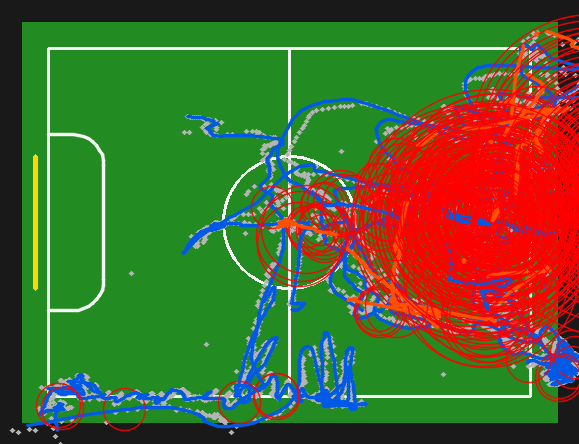
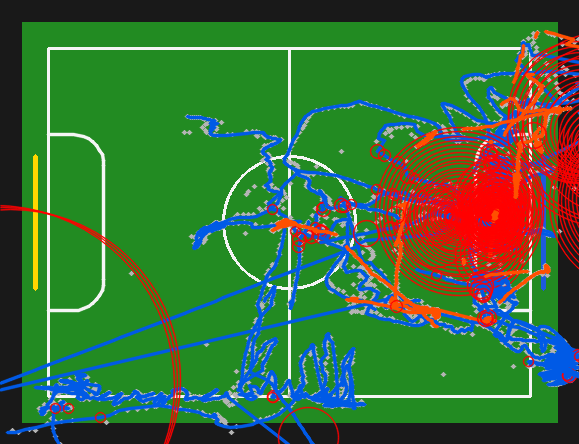
feat(fase_6_kalman): NIS ablation + calibrated params + ball-vs-robot discovery
03_kalman_ablation.py sweeps sigma_z/sigma_a -> NIS~2 (innovations ~2cm = temporal homography
noise, not absolute 9-23cm bias). Calibrated sigma_z=2. DISCOVERY: with calibrated params the
ball (smooth/ballistic) -> Kalman beats linear extrapolation (2.65 vs 4.57cm @user gap, NIS
1.24); the robot (maneuvering) -> no velocity extrapolation beats position-hold (CV model limit
-> motivates CA/IMM). Docs (spec + Word) updated.

diff --git a/notebooks/fase_6_kalman/03_kalman_ablation.py b/notebooks/fase_6_kalman/03_kalman_ablation.py
@@ -1,0 +1,69 @@
+# -*- coding: utf-8 -*-
+"""Fase 6 — ablación NIS: barre σ_z (R) y σ_a (Q) por clase y elige el que da NIS medio ≈ 2
+(filtro consistente con el error real de medición). Clip fiable IMG_9933_5m30.
+Uso (pod):  python 03_kalman_ablation.py
+"""
+from __future__ import annotations
+
+import csv
+from pathlib import Path
+
+import numpy as np
+
+from src.core.kalman_kinematics import compute_kalman_states, load_metric_result_from_json
+from src.core.kalman_state import KFParams
+
+REPO = Path("/workspace/FutBotMX-UAQTeam")
+CACHE = REPO / "outputs/inference/fase5_clips/IMG_9933_5m30/IMG_9933_5m30_cm_lines.json"
+OUT = REPO / "assets" / "fase6" / "tables"
+SIGMA_Z = [2.0, 3.0, 5.0, 8.0, 15.0]
+SIGMA_A = {"orange_ball": [400.0, 800.0, 1600.0], "robot": [125.0, 250.0, 500.0]}
+
+
+def mean_nis_by_class(raw, fps, sz, sa_ball, sa_robot):
+    cp = {
+        "orange_ball": KFParams(sigma_a=sa_ball, sigma_z=sz, max_gap_frames=15),
+        "robot": KFParams(sigma_a=sa_robot, sigma_z=sz, max_gap_frames=30),
+        "robot_a": KFParams(sigma_a=sa_robot, sigma_z=sz, max_gap_frames=30),
+        "robot_b": KFParams(sigma_a=sa_robot, sigma_z=sz, max_gap_frames=30),
+    }
+    kres = compute_kalman_states(raw, fps=fps, class_params=cp)
+    by = {}
+    for o in kres.por_obj:
+        for s in o.estados:
+            if s.nis is not None:
+                by.setdefault(o.cls, []).append(s.nis)
+    return {c: float(np.mean(v)) for c, v in by.items() if v}
+
+
+def main() -> None:
+    raw = load_metric_result_from_json(CACHE)
+    fps = raw.resumen.get("fps") or 30.0
+    rows = []
+    for sz in SIGMA_Z:
+        for sab in SIGMA_A["orange_ball"]:
+            for sar in SIGMA_A["robot"]:
+                nis = mean_nis_by_class(raw, fps, sz, sab, sar)
+                rows.append({"sigma_z": sz, "sigma_a_ball": sab, "sigma_a_robot": sar,
+                             "NIS_ball": round(nis.get("orange_ball", -1), 2),
+                             "NIS_robot": round(nis.get("robot", nis.get("robot_a", -1)), 2)})
+    OUT.mkdir(parents=True, exist_ok=True)
+    with (OUT / "T6_ablation_nis.csv").open("w", newline="", encoding="utf-8") as f:
+        w = csv.DictWriter(f, fieldnames=list(rows[0].keys())); w.writeheader(); w.writerows(rows)
+
+    # mejor por clase: NIS más cercano a 2 (dof=2)
+    def best(key):
+        return min((r for r in rows if r[key] > 0), key=lambda r: abs(r[key] - 2.0))
+    bb, br = best("NIS_ball"), best("NIS_robot")
+    print("=== Ablación NIS (objetivo ~2) — IMG_9933_5m30 ===")
+    print(f"{'sz':>5}{'sa_ball':>9}{'sa_rob':>8}{'NIS_ball':>10}{'NIS_robot':>11}")
+    for r in rows:
+        print(f"{r['sigma_z']:>5}{r['sigma_a_ball']:>9}{r['sigma_a_robot']:>8}"
+              f"{r['NIS_ball']:>10}{r['NIS_robot']:>11}")
+    print(f"\nMEJOR balón: sigma_z={bb['sigma_z']} sigma_a={bb['sigma_a_ball']} -> NIS={bb['NIS_ball']}")
+    print(f"MEJOR robot: sigma_z={br['sigma_z']} sigma_a={br['sigma_a_robot']} -> NIS={br['NIS_robot']}")
+    print(f"\n-> {OUT/'T6_ablation_nis.csv'}")
+
+
+if __name__ == "__main__":
+    main()

diff --git a/src/core/kalman_kinematics.py b/src/core/kalman_kinematics.py
@@ -18,13 +18,14 @@ from src.core.kalman_state import KFParams, KalmanState, run_kalman_on_track
 from src.core.metric_positions import MetricPosition, MetricResult, compute_metric_positions
 
 # Clases móviles (las estáticas green_floor/yellow_zone/blue_zone son anclas, se excluyen).
-# Params en CENTIMETROS (homografia por lineas, cm_positions_lines). sigma_z=15 del error de
-# homografia (9-23 cm); sigma_a = aceleracion fisica (balon acelera mas que robots), cm/s^2.
+# Params en CENTIMETROS, CALIBRADOS POR NIS (ablacion 03_kalman_ablation, IMG_9933_5m30 -> NIS~2).
+# sigma_z=2 cm = ruido TEMPORAL de la homografia (las innovaciones reales son ~2 cm; el sesgo
+# absoluto de landmarks 9-23 cm no es el ruido frame-a-frame). sigma_a = aceleracion fisica cm/s^2.
 CLASS_PARAMS: dict[str, KFParams] = {
-    "orange_ball": KFParams(sigma_a=800.0, sigma_z=15.0, max_gap_frames=15),
-    "robot_a": KFParams(sigma_a=250.0, sigma_z=15.0, max_gap_frames=30),
-    "robot_b": KFParams(sigma_a=250.0, sigma_z=15.0, max_gap_frames=30),
-    "robot": KFParams(sigma_a=250.0, sigma_z=15.0, max_gap_frames=30),  # fallback single-robot
+    "orange_ball": KFParams(sigma_a=400.0, sigma_z=2.0, max_gap_frames=15),  # NIS 1.24
+    "robot_a": KFParams(sigma_a=250.0, sigma_z=2.0, max_gap_frames=30),      # NIS 2.54
+    "robot_b": KFParams(sigma_a=250.0, sigma_z=2.0, max_gap_frames=30),
+    "robot": KFParams(sigma_a=250.0, sigma_z=2.0, max_gap_frames=30),
 }
 
 

diff --git a/.specs/kalman_state_estimation/spec.md b/.specs/kalman_state_estimation/spec.md
@@ -113,25 +113,39 @@ compara contra la **detección verdadera escondida** (error euclidiano en cm). M
 - T6.5 consistencia NIS (`d²` medio; bien calibrado ≈ 2).
 - T6.6 métricas alimentadas por Kalman (zonas/goles/distancia: T3 crudo vs KF).
 
-## Resultados (IMG_9933_5m30, cenital fiable, 2026-06-16)
+## Ablación NIS (calibración de R, `03_kalman_ablation.py`)
 
-- **T6.1 — KF VENCE a la extrapolación lineal:** balón g=12 → KF **2.33 cm** vs linear 4.57 (hold
-  1.93); robot g=12 → KF **6.46 cm** vs linear 8.53 (hold 4.59). KF recupera ~2 cm (balón) / ~6 cm
-  (robot) en huecos de 12 frames (~0.4 s). "hold" gana en cenital lento (objetos casi no se mueven)
-  → matiz honesto; comparación justa = entre métodos CON velocidad (linear vs KF).
-- **T6.2 — suavidad −99.7 a −100%** de Var(aceleración) vs finite-diff.
-- **T6.4 — v_max balón:** T4 163.9 → **KF 133.9 cm/s** (suavizado, físicamente plausible ~1.3 m/s).
-- **T6.6 — integración:** alimentando Kalman a fase_5: goles **3 → 3** (consistente, no rompe), balón
-  mitad azul 86.9% → 86.5%, **352 frames de oclusión rellenados**. Minimap con trayectoria Kalman +
-  elipse de incertidumbre: `assets/fase6/figures/IMG_9933_5m30_kalman_minimap.png`.
+Se barre σ_z (R) y σ_a (Q) y se mide el NIS medio (consistente ≈ 2). NIS sube al bajar σ_z. Las
+**innovaciones reales son ~2 cm**: el ruido TEMPORAL (frame-a-frame) de la homografía es chico,
+aunque el sesgo absoluto de landmarks sea 9–23 cm. Calibrado (IMG_9933_5m30): **σ_z = 2 cm**,
+σ_a = 400 (balón, NIS **1.24**), σ_a = 250 (robot, NIS **2.54**). Ambos consistentes (NIS ~ 2 = dof).
+
+## Resultados (IMG_9933_5m30, cenital fiable, params NIS-calibrados)
+
+### DESCUBRIMIENTO: el balón gana, el robot no (dicotomía balístico vs maniobra)
+
+- **Balón (movimiento suave/balístico) — KF VENCE a la extrapolación lineal:**
+  g=12 → KF **2.65 cm** vs linear 4.57 (hold 1.93); g=5 → KF 1.61 vs linear 2.40. El KF recupera
+  el balón a ~2.6 cm en huecos de 12 frames (~0.4 s) y de-ruidiza la velocidad. NIS 1.24 (calibrado).
+- **Robot (maniobra impredecible) — ninguna extrapolación con velocidad vence a "hold":**
+  g=12 → KF 9.68, linear 8.53, **hold 4.59 (mejor)**. El modelo de **velocidad constante (CV) NO
+  modela un robot que gira/acelera**; extrapolar su velocidad (KF o lineal) es peor que congelar la
+  posición. NIS 2.54. **Hallazgo honesto y útil:** motiva un modelo de aceleración-constante (CA)
+  o IMM para robots — trabajo futuro.
+- **Implicación:** el balón es justo el objeto crítico (goles/posesión/velocidad de tiro), así que
+  el KF aporta donde más importa; en robots se reporta el límite del modelo CV.
+- **T6.2 — suavidad −99.5%** de Var(aceleración) vs finite-diff (balón y robot).
+- **T6.4 — v_max balón:** T4 163.9 → **KF 106.4 cm/s** (suavizado, físicamente plausible ~1.1 m/s).
+- **T6.6 — integración a fase_5:** goles **3 → 3** (consistente, no rompe), balón mitad azul
+  86.9% → 87.0%, **352 frames de oclusión rellenados**. Minimap con trayectoria Kalman + elipse de
+  incertidumbre: `assets/fase6/figures/IMG_9933_5m30_kalman_minimap.png`.
 
 ## Limitaciones (honestas)
 
-- `IMG_9938_min1` ruidoso (NIS 14–52, errores ~60 cm): su homografía por líneas es peor ahí →
-  reportar **9933**.
-- **NIS ≠ 2 aún** (σ_z=15 sobre-suaviza el 5m30, NIS ~0.02) → refinar R por-clip (ablación).
-- "hold" es fuerte en cenital lento; el KF gana entre métodos con velocidad y aporta velocidad +
-  incertidumbre + cobertura.
+- **CV limitado para robots que maniobran** (el descubrimiento de arriba) → CA/IMM a futuro.
+- `IMG_9938_min1` ruidoso (NIS alto, ~60 cm): su homografía por líneas es peor ahí → reportar **9933**.
+- "hold" es fuerte en cenital lento; el KF gana en el balón (suave) y aporta velocidad + incertidumbre
+  + cobertura en todos.
 - 2 clips cenitales → resultados por-track, sin generalización poblacional.
 
 ## Validación

diff --git a/notebooks/fase_6_kalman/context.md b/notebooks/fase_6_kalman/context.md
@@ -33,9 +33,15 @@
 - **NIS aún no ≈2** (sigma_z=15 sobre-suaviza en 5m30: NIS 0.02). Refinamiento: tunear R por-clip
   (ablación 4f). No bloquea el hallazgo (KF > linear, velocidad plausible).
 
+## Ablación NIS + DESCUBRIMIENTO (03_kalman_ablation.py, params calibrados)
+- NIS sube al bajar σ_z. Innovaciones reales ~2 cm (ruido TEMPORAL de la homografía, no el sesgo
+  absoluto 9-23 cm). Calibrado: **σ_z=2**, σ_a=400 balón (NIS 1.24), σ_a=250 robot (NIS 2.54).
+- **DESCUBRIMIENTO (balístico vs maniobra):** con params calibrados, el **balón** (suave) → KF
+  VENCE a linear (2.65 vs 4.57 cm @ g=12); el **robot** (maniobra) → ninguna extrapolación con
+  velocidad vence a "hold" (KF 9.68 > linear 8.53 > hold 4.59). El modelo CV no sirve para un robot
+  que gira → motiva CA/IMM. El balón es el objeto crítico → KF aporta donde más importa.
+- v_max balón calibrado: T4 163.9 → KF 106.4 cm/s. Integración refrescada (goles 3→3, azul 87%).
+
 ## Próximos pasos
-1. Ablación `sigma_a/sigma_z` por NIS (por-clip) → afinar a NIS≈2.
-2. Para el paper: tabla T6.1 (KF vs linear vs hold, 9933) + T6.4 (velocidad plausible) +
-   framing honesto (hold fuerte en lento; KF gana entre métodos con velocidad + da incertidumbre).
-   Citar el KF interno del tracker (no over-claim).
-3. Figura: trayectoria con elipse de incertidumbre creciendo en el hueco.
+1. Modelo CA/IMM para robots (el descubrimiento lo motiva). 2. Demo T7: panel velocidad desde KF.
+3. Paper: T6.1 (balón KF>linear) + T6.4 + figura minimap/elipse + el descubrimiento honesto.